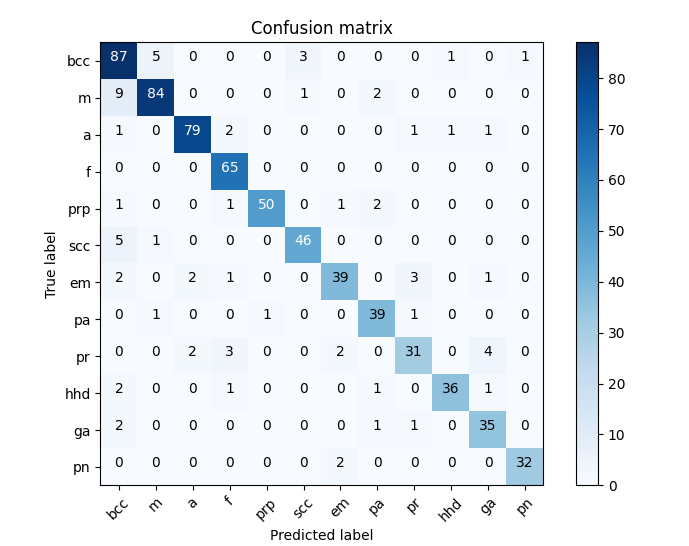
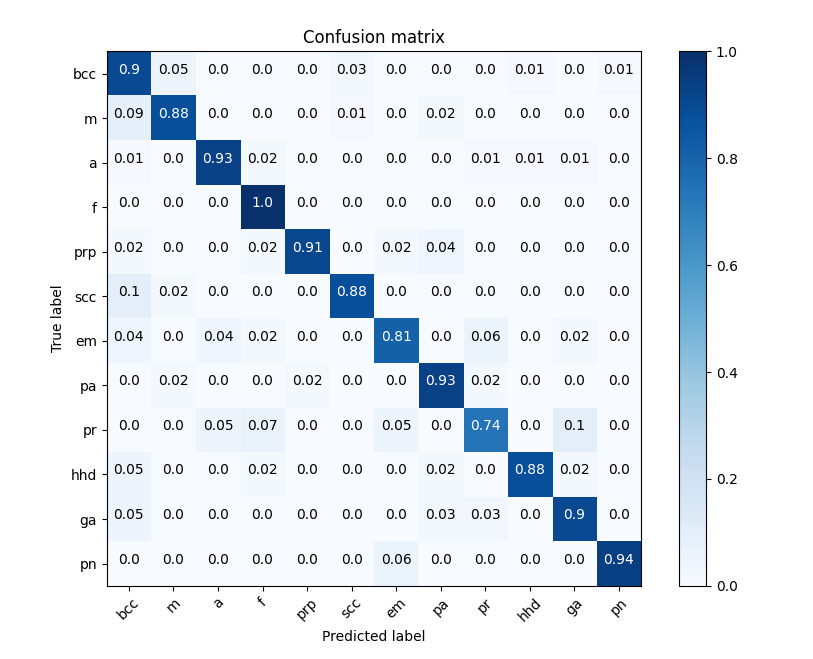
Changed a few things.

diff --git a/app/lib/src/widgets/scan_page.dart b/app/lib/src/widgets/scan_page.dart
@@ -78,7 +78,7 @@ class ScanPageState extends State<ScanPage> {
       final imagePath = image.path;
       final imageFile = File(imagePath);
       image_utils.Image? decodedImage = image_utils.decodeImage(await imageFile.readAsBytes());
-      int cropSize = (decodedImage!.width * 0.75).round();
+      int cropSize = (decodedImage!.width * 0.70).round();
       cropSize = cropSize < 224 ? 224 : cropSize;
       int startX = ((decodedImage.width - cropSize) / 2).round();
       int startY = ((decodedImage.height - cropSize) / 2).round();

diff --git a/validate.py b/validate.py
@@ -3,6 +3,7 @@ import itertools
 import numpy as np
 import pandas as pd
 import matplotlib.pyplot as plt
+import matplotlib.colors as colors
 from tqdm import tqdm
 
 # pytorch libraries
@@ -52,14 +53,15 @@ def compute_images_std_mean(paths):
     return torch.std_mean(images, dim=(1, 2, 3))
 
 def plot_confusion_matrix(cm, classes, normalize=False, title='Confusion matrix', cmap=plt.cm.Blues):
-    plt.imshow(cm, interpolation='nearest', cmap=cmap)
+    if normalize:
+        cm = cm.astype('float') / cm.sum(axis=1)[:, np.newaxis]
+        cm = np.around(cm, decimals=2)  # round to 2 decimal places
+    plt.imshow(cm, interpolation='nearest', cmap=cmap, norm=colors.Normalize(vmin=0, vmax=1) if normalize else None)
     plt.title(title)
     plt.colorbar()
     tick_marks = np.arange(len(classes))
     plt.xticks(tick_marks, classes, rotation=45)
     plt.yticks(tick_marks, classes)
-    if normalize:
-        cm = cm.astype('float') / cm.sum(axis=1)[:, np.newaxis]
     thresh = cm.max() / 2.
     for i, j in itertools.product(range(cm.shape[0]), range(cm.shape[1])):
         plt.text(j, i, cm[i, j],
@@ -113,4 +115,4 @@ if __name__ == '__main__':
         if abbreviation in plot_labels:
             abbreviation.capitalize()
         plot_labels.append(abbreviation)
-    plot_confusion_matrix(confusion_mtx, plot_labels)
+    plot_confusion_matrix(confusion_mtx, plot_labels, normalize=True)
